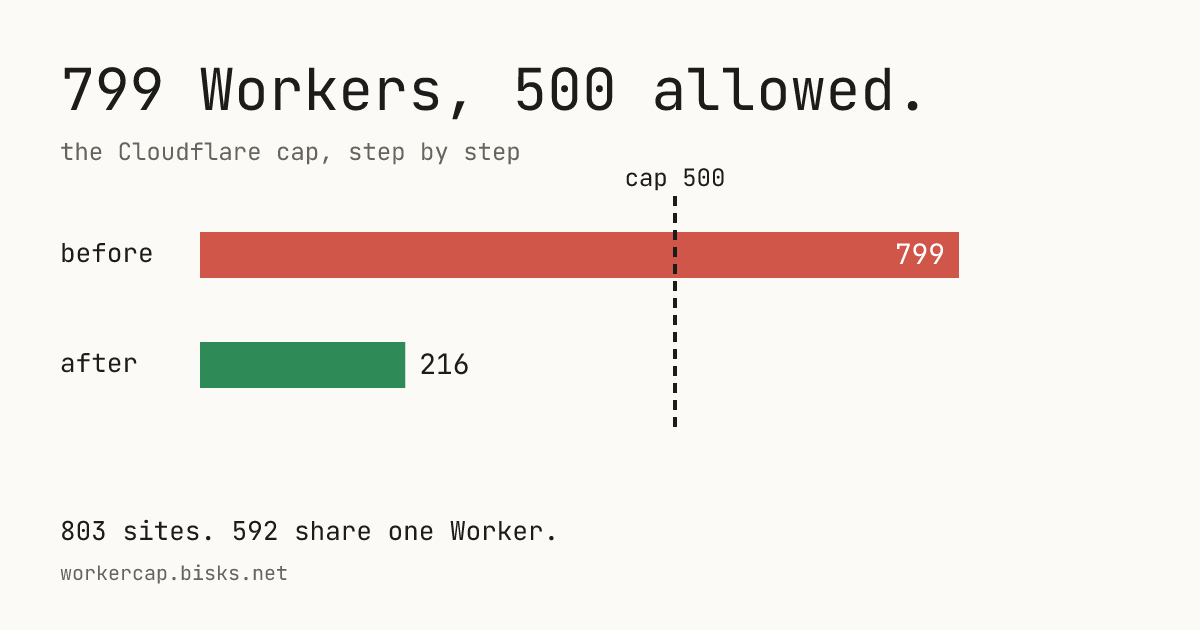
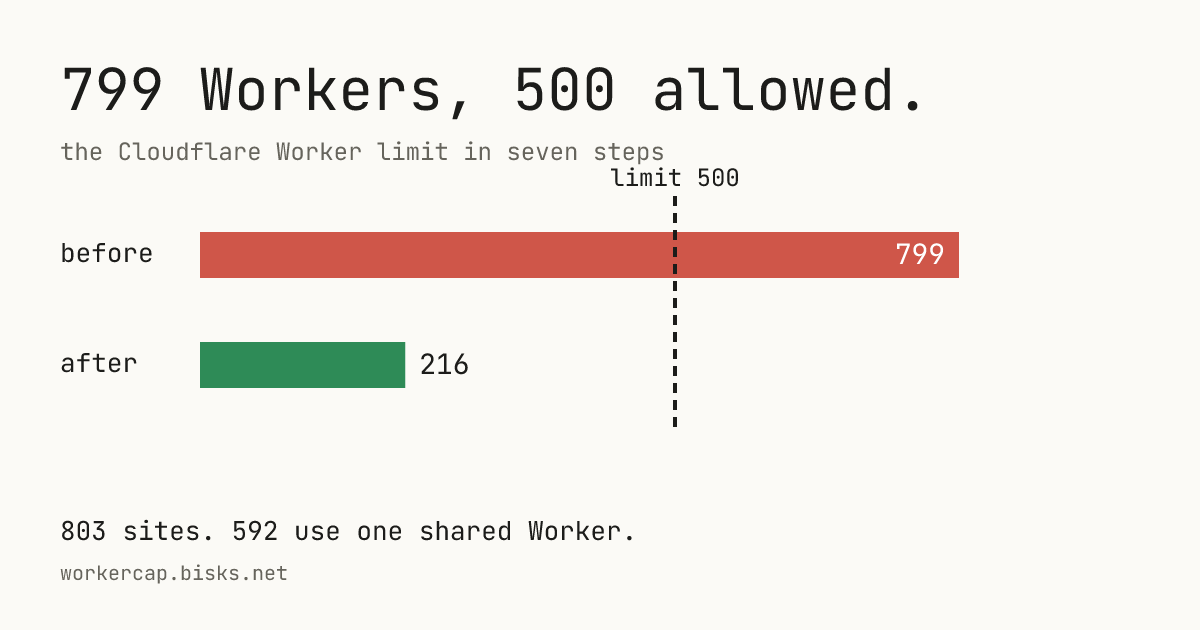
buildthis: workercap (@bisks.net)

Changed region(s): [[0.2158, 0.2111, 0.6167, 0.3016], [0.2467, 0.8143, 0.5242, 0.8746]]

diff --git a/sites/workercap/public/index.html b/sites/workercap/public/index.html
@@ -3,19 +3,19 @@
 <head>
 <meta charset="utf-8" />
 <meta name="viewport" content="width=device-width, initial-scale=1" />
-<title>799 Workers, 500 allowed — the Cloudflare cap, step by step</title>
-<meta name="description" content="Cloudflare allows 500 Workers per account. This account held 799. Diagrams of the setup before, the setup after, and the three limits that shaped it." />
+<title>799 Workers, 500 allowed — the Cloudflare Worker limit in seven steps</title>
+<meta name="description" content="Cloudflare allows 500 Workers for each account. This account has 799. The page shows diagrams of the setup before the change, the setup after the change, and three Cloudflare limits." />
 <meta property="og:title" content="799 Workers, 500 allowed" />
-<meta property="og:description" content="The Cloudflare Workers cap, drawn step by step: one Worker per site, the wall at 500, and the move to 216." />
+<meta property="og:description" content="The Cloudflare Workers limit in seven steps. Before: one Worker for each site. After: 216 Workers." />
 <meta property="og:url" content="https://workercap.bisks.net/" />
 <meta property="og:type" content="website" />
 <meta property="og:image" content="https://workercap.bisks.net/og.png" />
 <meta property="og:image:width" content="1200" />
 <meta property="og:image:height" content="630" />
-<meta property="og:image:alt" content="A bar chart: 799 Workers before, a line at the 500 cap, 216 Workers after." />
+<meta property="og:image:alt" content="A bar chart: 799 Workers before, a line at the limit of 500, 216 Workers after." />
 <meta name="twitter:card" content="summary_large_image" />
 <meta name="twitter:title" content="799 Workers, 500 allowed" />
-<meta name="twitter:description" content="The Cloudflare Workers cap, drawn step by step." />
+<meta name="twitter:description" content="The Cloudflare Workers limit in seven steps." />
 <meta name="twitter:image" content="https://workercap.bisks.net/og.png" />
 <style>
   :root {
@@ -56,31 +56,31 @@
 <main>
   <div class="n">explainer · infra</div>
   <h1>799 Workers,<br>500 allowed.</h1>
-  <p class="lede">This repo hosts 803 small sites. Cloudflare lets one account hold 500 Workers. Seven steps cover the setup before, the wall, the fix, and the setup after.</p>
+  <p class="lede">This repository has 803 small sites. A Cloudflare account can have a maximum of 500 Workers. This page has seven steps. The steps show the setup before the change, the problem, the solution, and the setup after the change.</p>
 
   <section class="step">
     <div class="n">Step 1 · the limit</div>
-    <h2>One account holds 500 Workers.</h2>
-    <p>A Worker is one deployed script on Cloudflare. The Workers Paid plan caps an account at <b>500</b> of them. Cloudflare counts a Worker that serves static files the same as one that runs code.</p>
+    <h2>One account can have 500 Workers.</h2>
+    <p>A Worker is one script that runs on Cloudflare. The Workers Paid plan limits an account to <b>500</b> Workers. Cloudflare counts a Worker that serves static files in the same way as a Worker that runs code.</p>
     <figure>
-      <svg viewBox="0 0 700 120" role="img" aria-label="A bar of 500 slots, all filled">
-        <text x="20" y="28" font-size="14" fill="#66645c">cap: 500 Workers per account</text>
+      <svg viewBox="0 0 700 120" role="img" aria-label="A bar that shows the maximum of 500 Workers">
+        <text x="20" y="28" font-size="14" fill="#66645c">limit: 500 Workers for each account</text>
         <rect x="20" y="42" width="660" height="34" fill="#fff" stroke="#1c1c1a" stroke-width="2"/>
         <rect x="20" y="42" width="660" height="34" fill="#e08a1e" opacity=".25"/>
-        <text x="350" y="65" font-size="16" font-weight="700" text-anchor="middle" fill="#1c1c1a">500 slots</text>
+        <text x="350" y="65" font-size="16" font-weight="700" text-anchor="middle" fill="#1c1c1a">500 Workers</text>
         <text x="20" y="104" font-size="12" fill="#66645c">0</text>
         <text x="680" y="104" font-size="12" text-anchor="end" fill="#66645c">500</text>
       </svg>
-      <figcaption>fig 1 — the whole budget</figcaption>
+      <figcaption>fig 1 — the maximum number of Workers</figcaption>
     </figure>
   </section>
 
   <section class="step">
-    <div class="n">Step 2 · before</div>
-    <h2>Every site got its own Worker.</h2>
-    <p>Each folder under <code>sites/</code> had a <code>wrangler.toml</code>. Each deploy made a Worker named <code>atprotozoa-&lt;site&gt;</code>. Each Worker took a route for its hostname and handed the request to a bundle of static files.</p>
+    <div class="n">Step 2 · before the change</div>
+    <h2>Each site had its own Worker.</h2>
+    <p>Each folder in <code>sites/</code> had a <code>wrangler.toml</code> file. Each deploy made a Worker with the name <code>atprotozoa-&lt;site&gt;</code>. Each Worker had a route for the hostname of its site. The Worker sent each request to a set of static files.</p>
     <figure>
-      <svg viewBox="0 0 700 250" role="img" aria-label="Three browsers each reach their own Worker, each Worker reaches its own files">
+      <svg viewBox="0 0 700 250" role="img" aria-label="Three hostnames each go to their own Worker. Each Worker goes to its own files">
         <defs><marker id="a" viewBox="0 0 10 10" refX="9" refY="5" markerWidth="7" markerHeight="7" orient="auto"><path d="M0 0L10 5L0 10z" fill="#1c1c1a"/></marker></defs>
         <g font-size="13">
           <text x="20" y="22" fill="#66645c">request</text>
@@ -113,49 +113,49 @@
             <line x1="190" y1="119" x2="248" y2="119"/><line x1="420" y1="119" x2="498" y2="119"/>
             <line x1="190" y1="179" x2="248" y2="179"/><line x1="420" y1="179" x2="498" y2="179"/>
           </g>
-          <text x="350" y="228" text-anchor="middle" fill="#66645c">… 803 rows, 803 Workers</text>
+          <text x="350" y="228" text-anchor="middle" fill="#66645c">The same pattern repeats for each site</text>
         </g>
       </svg>
       <figcaption>fig 2 — one site, one Worker, one route</figcaption>
     </figure>
-    <p>Most of those Workers held the same ten lines: pass the request to the file bundle. 592 sites needed nothing more.</p>
+    <p>Most of those Workers had the same ten lines of code. The code sends the request to the set of files. 592 sites needed no other function.</p>
   </section>
 
   <section class="step">
-    <div class="n">Step 3 · the wall</div>
-    <h2>The account reached 799.</h2>
+    <div class="n">Step 3 · the problem</div>
+    <h2>The account had 799 Workers.</h2>
     <figure>
-      <svg viewBox="0 0 700 150" role="img" aria-label="Bar reaching 799 past a cap line at 500">
+      <svg viewBox="0 0 700 150" role="img" aria-label="A bar of 799 Workers. A line at 500 shows the limit.">
         <rect x="20" y="40" width="660" height="34" fill="#fff" stroke="#1c1c1a" stroke-width="1"/>
         <rect x="20" y="40" width="660" height="34" fill="#e08a1e" opacity=".35"/>
         <rect x="20" y="40" width="660" height="34" fill="none" stroke="#1c1c1a" stroke-width="2"/>
         <!-- scale: 799 -> 660px; 500 -> 413px -->
         <rect x="433" y="40" width="247" height="34" fill="#c7392b" opacity=".75"/>
         <line x1="433" y1="26" x2="433" y2="92" stroke="#1c1c1a" stroke-width="3" stroke-dasharray="6 4"/>
-        <text x="433" y="18" font-size="13" text-anchor="middle" font-weight="700">cap 500</text>
+        <text x="433" y="18" font-size="13" text-anchor="middle" font-weight="700">limit 500</text>
         <text x="226" y="62" font-size="15" text-anchor="middle" font-weight="700">500 allowed</text>
-        <text x="556" y="62" font-size="15" text-anchor="middle" font-weight="700" fill="#fff">299 over</text>
+        <text x="556" y="62" font-size="15" text-anchor="middle" font-weight="700" fill="#fff">299 more than the limit</text>
         <text x="680" y="116" font-size="13" text-anchor="end" font-weight="700">799 Workers · 2026-11-02</text>
       </svg>
       <figcaption>fig 3 — the account on 2026-11-02</figcaption>
     </figure>
-    <p>Past 500, existing Workers keep serving and redeploying. Creating a new Worker fails:</p>
+    <p>Above 500, the existing Workers continue to serve and deploy. A request to create a new Worker fails with this error:</p>
     <pre>You have exceeded the limit of 500 Workers
 on your account. [code: 10037]</pre>
     <ol class="tl">
-      <li><b>2026-08-20</b> — the account passes 500. Deploys keep working, because newer wrangler creates scripts through an upload path that skips the check.</li>
-      <li><b>2026-09-17</b> — a limit-increase request goes to Cloudflare. No answer arrives. Cloudflare points accounts that want more than 500 to Workers for Platforms.</li>
-      <li><b>2026-10-29</b> — strandbeest becomes the last new Worker.</li>
-      <li><b>2026-10-31</b> — the upload path starts returning 10037. Nine new sites wait undeployed.</li>
+      <li><b>2026-08-20</b> — the account goes above 500 Workers. Deploys continue to work. Newer wrangler versions use an upload path that does not do the check.</li>
+      <li><b>2026-09-17</b> — a request to increase the limit goes to Cloudflare. Cloudflare does not answer. For more than 500 Workers, Cloudflare recommends Workers for Platforms.</li>
+      <li><b>2026-10-29</b> — strandbeest is the last new Worker.</li>
+      <li><b>2026-10-31</b> — the upload path returns error 10037. Nine new sites cannot deploy.</li>
     </ol>
   </section>
 
   <section class="step">
-    <div class="n">Step 4 · the idea</div>
-    <h2>Most Workers did the same job, so one Worker takes that job.</h2>
-    <p>The <code>fallback</code> Worker already held the wildcard route <code>*.bisks.net/*</code>. It reads the hostname, picks the matching folder, and serves the files. A site with no server code needs a folder and no Worker.</p>
+    <div class="n">Step 4 · the solution</div>
+    <h2>One Worker can do the same job for many sites.</h2>
+    <p>The <code>fallback</code> Worker already had the wildcard route <code>*.bisks.net/*</code>. It reads the hostname. It finds the folder for that hostname. It sends the files from that folder. A site with no server code needs a folder. It does not need a Worker.</p>
     <figure>
-      <svg viewBox="0 0 700 270" role="img" aria-label="Three browsers reach one fallback Worker, which reads the hostname and serves one of many folders">
+      <svg viewBox="0 0 700 270" role="img" aria-label="Three hostnames go to one fallback Worker. The Worker reads the hostname and sends files from one of many folders">
         <defs><marker id="b" viewBox="0 0 10 10" refX="9" refY="5" markerWidth="7" markerHeight="7" orient="auto"><path d="M0 0L10 5L0 10z" fill="#1c1c1a"/></marker></defs>
         <g font-size="13">
           <text x="20" y="22" fill="#66645c">request</text>
@@ -168,8 +168,8 @@ on your account. [code: 10037]</pre>
           <rect x="250" y="70" width="190" height="110" fill="#fdf0dc" stroke="#e08a1e" stroke-width="2"/>
           <text x="345" y="100" text-anchor="middle" font-weight="700">fallback</text>
           <text x="345" y="124" text-anchor="middle">1. read hostname</text>
-          <text x="345" y="144" text-anchor="middle">2. map to /&lt;name&gt;</text>
-          <text x="345" y="164" text-anchor="middle">3. serve the file</text>
+          <text x="345" y="144" text-anchor="middle">2. find folder /&lt;name&gt;</text>
+          <text x="345" y="164" text-anchor="middle">3. send the file</text>
 
           <rect x="510" y="40" width="160" height="38" fill="#fff" stroke="#1c1c1a" stroke-width="2"/><text x="590" y="64" text-anchor="middle">/a</text>
           <rect x="510" y="110" width="160" height="38" fill="#fff" stroke="#1c1c1a" stroke-width="2"/><text x="590" y="134" text-anchor="middle">/b</text>
@@ -182,27 +182,27 @@ on your account. [code: 10037]</pre>
           <text x="350" y="250" text-anchor="middle" fill="#66645c">592 folders, 1 Worker</text>
         </g>
       </svg>
-      <figcaption>fig 4 — a hosted site</figcaption>
+      <figcaption>fig 4 — how a hosted site works</figcaption>
     </figure>
-    <p>Each hosted site keeps its own hostname, so it keeps its own origin, cookies, localStorage and OAuth login.</p>
+    <p>Each hosted site keeps its own hostname. Thus each site keeps its own origin, cookies, localStorage, and OAuth login.</p>
   </section>
 
   <section class="step">
-    <div class="n">Step 5 · the move</div>
-    <h2>Four moves per site, checked at each one.</h2>
+    <div class="n">Step 5 · the migration</div>
+    <h2>Four actions for each site. Each action has a check.</h2>
     <ol class="tl">
-      <li><b>classify</b> — <code>migrate-to-host.mjs</code> picks sites whose Worker does nothing but pass requests to the file bundle. A site with a binding, a cron, or real code stays put.</li>
-      <li><b>host</b> — delete the site's <code>wrangler.toml</code> and <code>src/</code>, list it in <code>fallback/sites.json</code>, push. Fallback deploys with the site inside.</li>
-      <li><b>cut over</b> — <code>cf-cutover.mjs --routes</code> removes the old route, waits for fallback to answer, and compares the status and a hash of <code>/</code>. A mismatch puts the route back.</li>
-      <li><b>delete</b> — <code>cf-cutover.mjs --workers</code> deletes the old Worker. This frees the slot. Workers that hold a Custom Domain go one at a time, since deletion takes the DNS record with it.</li>
+      <li><b>classify</b> — <code>migrate-to-host.mjs</code> finds sites where the Worker only sends requests to the set of files. A site with a binding, a cron trigger, or custom code keeps its Worker.</li>
+      <li><b>host</b> — delete the <code>wrangler.toml</code> file and the <code>src/</code> folder of the site. Add the site to <code>fallback/sites.json</code>. Push the change. The fallback Worker deploys with the site files.</li>
+      <li><b>cut over</b> — <code>cf-cutover.mjs --routes</code> removes the old route. It waits until the fallback Worker answers. It compares the status code and a hash of <code>/</code>. If they are different, it restores the route.</li>
+      <li><b>delete</b> — <code>cf-cutover.mjs --workers</code> deletes the old Worker. This makes one Worker available again. The script deletes Workers with a Custom Domain one at a time. The deletion also deletes the DNS record.</li>
     </ol>
   </section>
 
   <section class="step">
-    <div class="n">Step 6 · after</div>
-    <h2>216 Workers, 803 sites.</h2>
+    <div class="n">Step 6 · after the change</div>
+    <h2>216 Workers for 803 sites.</h2>
     <figure>
-      <svg viewBox="0 0 700 220" role="img" aria-label="Two bars: before 799, after 216, with the 500 cap line">
+      <svg viewBox="0 0 700 220" role="img" aria-label="Two bars: 799 before, 216 after. A line at 500 shows the limit.">
         <!-- scale: 799 -> 560px => 0.7 px per Worker; 500 -> 350px; 216 -> 151px -->
         <text x="20" y="42" font-size="14" font-weight="700">before</text>
         <rect x="110" y="24" width="560" height="26" fill="#c7392b" opacity=".8"/>
@@ -211,37 +211,37 @@ on your account. [code: 10037]</pre>
         <rect x="110" y="78" width="151" height="26" fill="#2e8b57"/>
         <text x="270" y="96" font-size="14" font-weight="700">216</text>
         <line x1="460" y1="10" x2="460" y2="124" stroke="#1c1c1a" stroke-width="3" stroke-dasharray="6 4"/>
-        <text x="460" y="144" font-size="13" text-anchor="middle" font-weight="700">cap 500</text>
-        <text x="20" y="190" font-size="13" fill="#66645c">284 slots free · room for 284 sites that need server code</text>
+        <text x="460" y="144" font-size="13" text-anchor="middle" font-weight="700">limit 500</text>
+        <text x="20" y="190" font-size="13" fill="#66645c">284 Workers available · space for 284 sites with server code</text>
       </svg>
       <figcaption>fig 5 — Workers on the account</figcaption>
     </figure>
     <table>
-      <tr><th>group</th><th>sites</th><th>serves them</th></tr>
+      <tr><th>group</th><th>sites</th><th>served by</th></tr>
       <tr><td>hosted</td><td class="num">592</td><td>the shared <code>fallback</code> Worker</td></tr>
-      <tr><td>own Worker</td><td class="num">211</td><td>one Worker each: share routes, KV, proxies, custom code</td></tr>
+      <tr><td>own Worker</td><td class="num">211</td><td>one Worker for each site: share routes, KV, proxies, custom code</td></tr>
     </table>
-    <p>Four host Workers (<code>atprotozoa-host-1</code> to <code>-4</code>, 148 sites each) are in place to split the hosted sites into groups, so a push to one site redeploys its group of 148 and leaves the other 444 alone.</p>
+    <p>Four host Workers (<code>atprotozoa-host-1</code> to <code>-4</code>) split the hosted sites into groups of 148 sites. A push to one site deploys only its group of 148 sites. The other 444 sites do not change.</p>
   </section>
 
   <section class="step">
-    <div class="n">Step 7 · the other limits</div>
-    <h2>The Worker count has two neighbors.</h2>
-    <p>The same zone has two more ceilings. Each one broke a deploy before the Worker cap did.</p>
+    <div class="n">Step 7 · other limits</div>
+    <h2>Two other limits apply to the zone.</h2>
+    <p>The zone has two more limits. Each limit stopped deploys before the Worker limit did.</p>
     <table>
-      <tr><th>limit</th><th>value</th><th>what happened</th></tr>
-      <tr><td>Workers per account</td><td class="num">500</td><td>799 reached; new Workers fail with 10037</td></tr>
-      <tr><td>Routes per zone</td><td class="num">1000</td><td>reached 2026-09-25; new sites got a Worker and no route (code 10073). Removing 293 legacy path routes freed room.</td></tr>
-      <tr><td>Custom Domains per zone</td><td class="num">100</td><td>reached July 2026; new subdomains deployed with no DNS record. Sites use plain routes; the apex keeps its Custom Domain.</td></tr>
+      <tr><th>limit</th><th>value</th><th>effect</th></tr>
+      <tr><td>Workers per account</td><td class="num">500</td><td>The account has 799. New Workers fail with error 10037.</td></tr>
+      <tr><td>Routes per zone</td><td class="num">1000</td><td>The limit was reached on 2026-09-25. New sites got a Worker and no route (error 10073). Removal of 293 legacy path routes made room.</td></tr>
+      <tr><td>Custom Domains per zone</td><td class="num">100</td><td>The limit was reached in July 2026. New subdomains deployed with no DNS record. Sites now use plain routes. The apex keeps its Custom Domain.</td></tr>
     </table>
-    <p>A new site today is a folder with <code>public/</code> and <code>site.json</code>. It takes zero Worker slots and zero routes, since the wildcard route covers it. A site that needs server code takes one slot and one route.</p>
+    <p>A new site today is a folder with <code>public/</code> and <code>site.json</code>. The wildcard route covers it. It uses no Worker and no route. A site with server code uses one Worker and one route.</p>
   </section>
 
-  <p><a class="share" href="https://bsky.app/intent/compose?text=799%20Workers%2C%20500%20allowed%3A%20the%20Cloudflare%20cap%2C%20drawn%20step%20by%20step.%20https%3A%2F%2Fworkercap.bisks.net%2F" target="_blank" rel="noopener">post this to bluesky →</a></p>
+  <p><a class="share" href="https://bsky.app/intent/compose?text=799%20Workers%2C%20500%20allowed%3A%20the%20Cloudflare%20Worker%20limit%20in%20seven%20steps.%20https%3A%2F%2Fworkercap.bisks.net%2F" target="_blank" rel="noopener">post this to bluesky →</a></p>
 </main>
 <footer>
-  <p>Numbers come from notes/20-deploy.md as of 2026-11-02.</p>
-  <p>Asked for by @bisks.net · built by @buildthis.bisks.net</p>
+  <p>The numbers are from notes/20-deploy.md on 2026-11-02.</p>
+  <p>Requested by @bisks.net · built by @buildthis.bisks.net</p>
   <p><a href="https://rateyourbuild.bisks.net/site/workercap" target="_blank" rel="noopener">rate this on rateyourbuild →</a></p>
   <p>November is #NaNoFoMo: <a href="https://nanofomo.bisks.net/" target="_blank" rel="noopener">pledge not to foom →</a></p>
 </footer>

diff --git a/apex/public/index.html b/apex/public/index.html
@@ -4847,7 +4847,7 @@
         <a class="card" href="https://workercap.bisks.net/" data-site="workercap" data-by="bisks.net" data-type="explainer" data-src="bot">
           <h2>workercap <span class="tag">explainer</span></h2>
           <p>
-            a step-by-step diagram of the infra before and after the Cloudflare 500-Worker cap: 799 Workers down to 216. bisks.net asked for it.
+            seven steps with diagrams. They show the setup before and after the Cloudflare limit of 500 Workers. Workers go from 799 to 216. bisks.net asked for it.
           </p>
         </a>
         <a class="card" href="https://writeonly.bisks.net/" data-site="writeonly" data-by="aly.codes" data-type="tool" data-src="bot">
